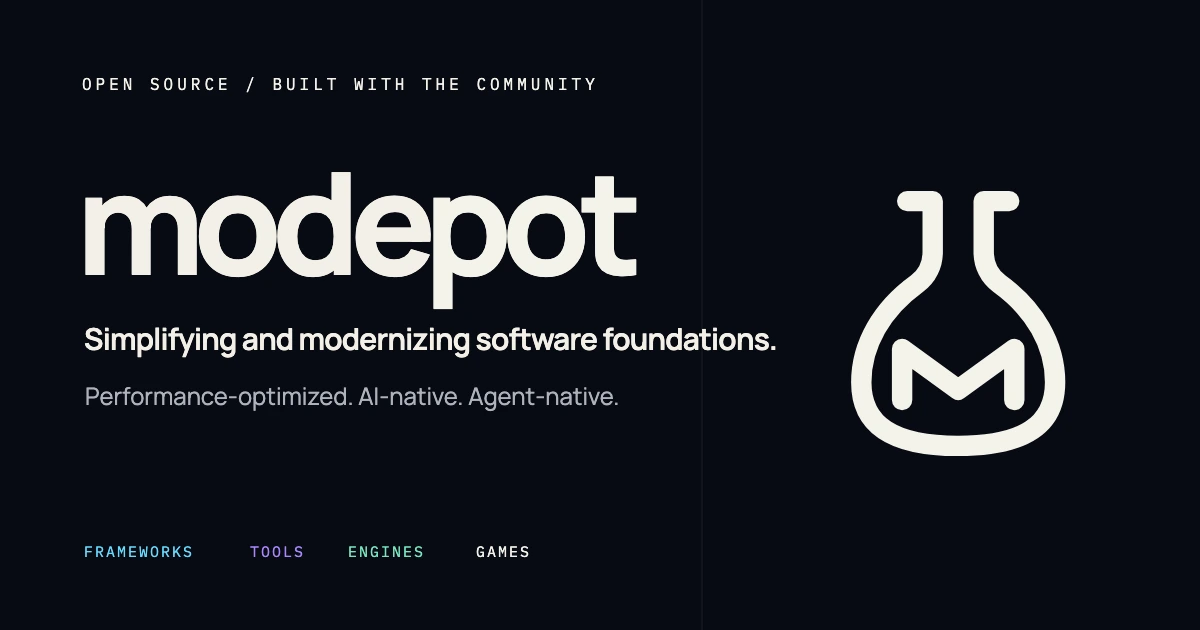
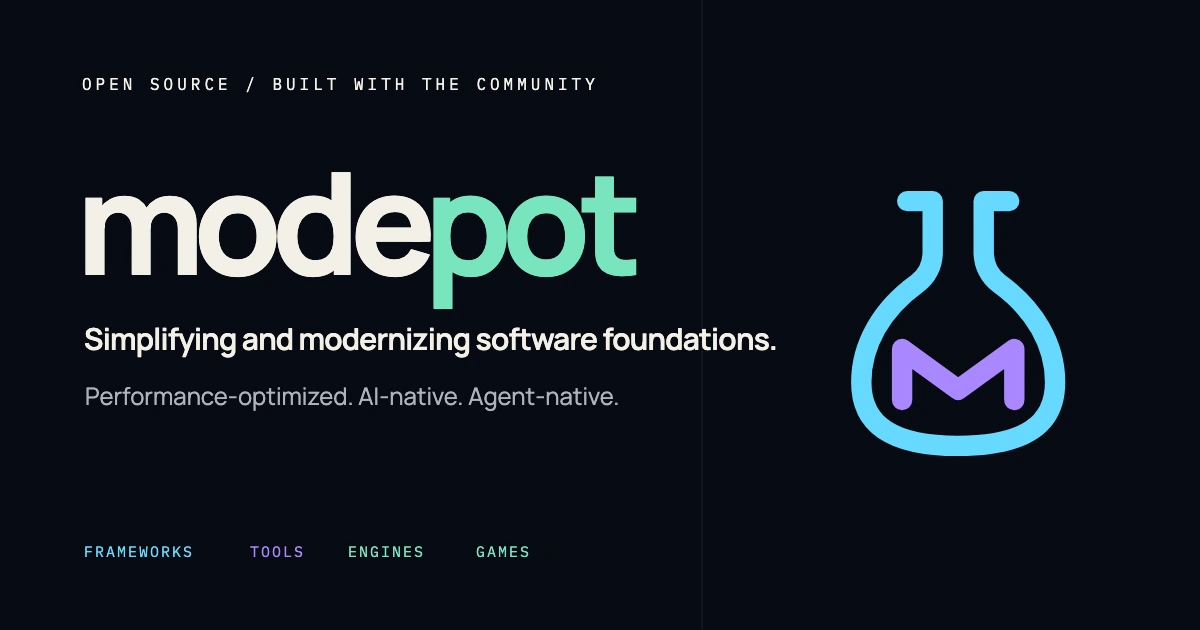
feat: give ModePot a multicolour umbrella identity

Changed region(s): [[0.7092, 0.3016, 0.8942, 0.7238], [0.3392, 0.2714, 0.555, 0.4825], [0.4008, 0.8444, 0.4317, 0.9048]]

diff --git a/src/styles/multicolour-identity.css b/src/styles/multicolour-identity.css
@@ -1,0 +1,20 @@
+/* ModePot umbrella identity: coordinated cyan–violet–mint spectrum. */
+:root {
+  --umbrella: #66d9ff;
+  --umbrella-violet: #a987ff;
+  --umbrella-mint: #77e5bd;
+}
+.hero-wordmark strong,
+.site-header .brand strong,
+.footer-brand strong,
+.open-source-seal b {
+  color: transparent;
+  background: linear-gradient(105deg, #66d9ff 0%, #a987ff 52%, #77e5bd 100%);
+  background-clip: text;
+  -webkit-background-clip: text;
+  -webkit-text-fill-color: transparent;
+}
+.brand-flask-outline { stroke: #66d9ff; }
+.brand-flask-monogram { stroke: #a987ff; opacity: .95; }
+a:focus-visible { outline-color: #77e5bd; }
+.creator-links a:hover, .creator-links a span { color: #77e5bd; }

diff --git a/BRAND.md b/BRAND.md
@@ -1,12 +1,12 @@
 # ModePot identity system
 
-ModePot uses one shared vessel geometry and a distinct interior symbol for each project. The shared silhouette makes the family recognizable; the interior symbol communicates the boundary each project owns.
+ModePot uses one shared vessel geometry and a distinct interior symbol for each project. The umbrella identity owns coordinated cyan, violet, and mint; sibling project accents remain independent. The shared silhouette makes the family recognizable; the interior symbol communicates the boundary each project owns.
 
 ## Marks
 
 | Project | Mark | Meaning | Accent |
 | --- | --- | --- | --- |
-| ModePot | [`public/modepot-mark.svg`](public/modepot-mark.svg) | A geometric vessel carrying the ModePot M monogram | `#F2B84B` |
+| ModePot | [`public/modepot-mark.svg`](public/modepot-mark.svg) | A geometric vessel carrying the ModePot M monogram | Coordinated cyan–violet–mint spectrum |
 | Dexpot | [`public/marks/dexpot-mark.svg`](public/marks/dexpot-mark.svg) | Parallel execution lanes | `#66D9FF` |
 | Intpot | [`public/marks/intpot-mark.svg`](public/marks/intpot-mark.svg) | One typed source branching into three interfaces | `#F2B84B` |
 | Summonpot | [`public/marks/summonpot-mark.svg`](public/marks/summonpot-mark.svg) | An agent-owned decision inside an explicit boundary | `#A987FF` |

diff --git a/README.md b/README.md
@@ -1,8 +1,8 @@
 <p align="center">
   <picture>
-    <source media="(prefers-color-scheme: dark)" srcset="public/modepot-mark.svg?v=neutral-1">
-    <source media="(prefers-color-scheme: light)" srcset="public/modepot-mark-light.svg?v=neutral-1">
-    <img src="public/modepot-mark-light.svg?v=neutral-1" alt="ModePot family mark" width="96" height="96">
+    <source media="(prefers-color-scheme: dark)" srcset="public/modepot-mark.svg?v=multicolour-1">
+    <source media="(prefers-color-scheme: light)" srcset="public/modepot-mark-light.svg?v=multicolour-1">
+    <img src="public/modepot-mark-light.svg?v=multicolour-1" alt="ModePot family mark" width="96" height="96">
   </picture>
 </p>
 
